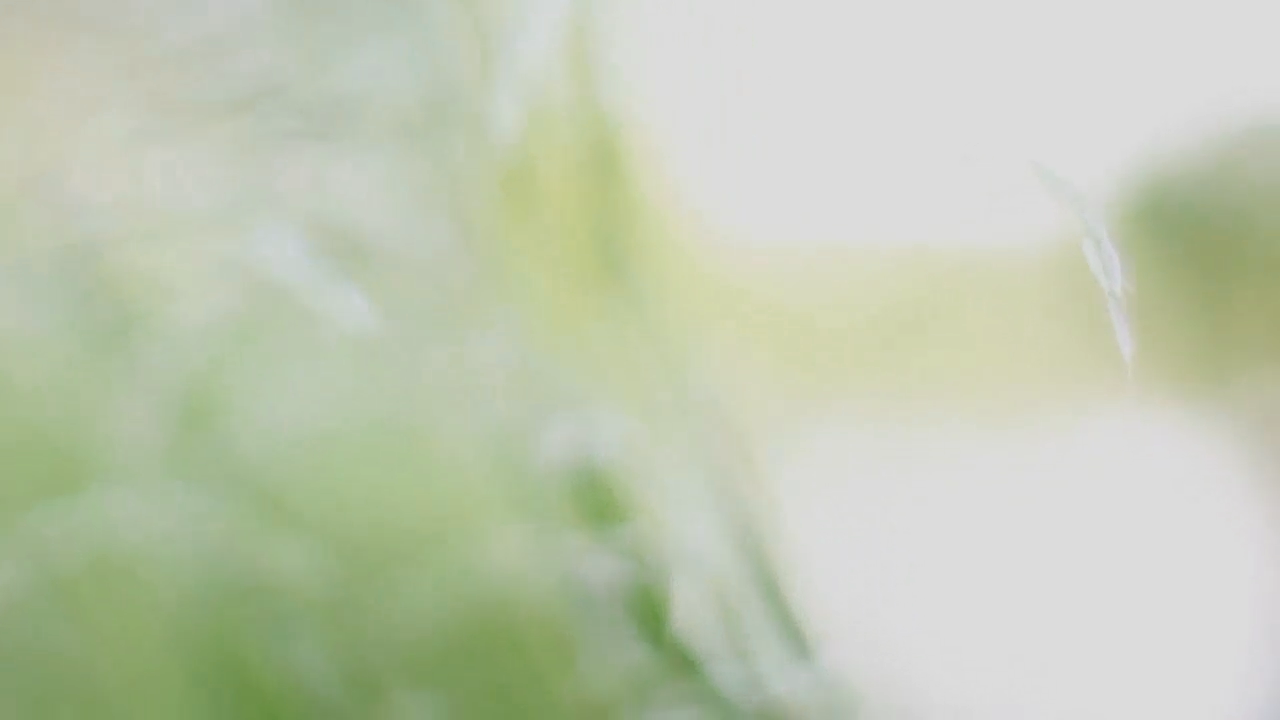
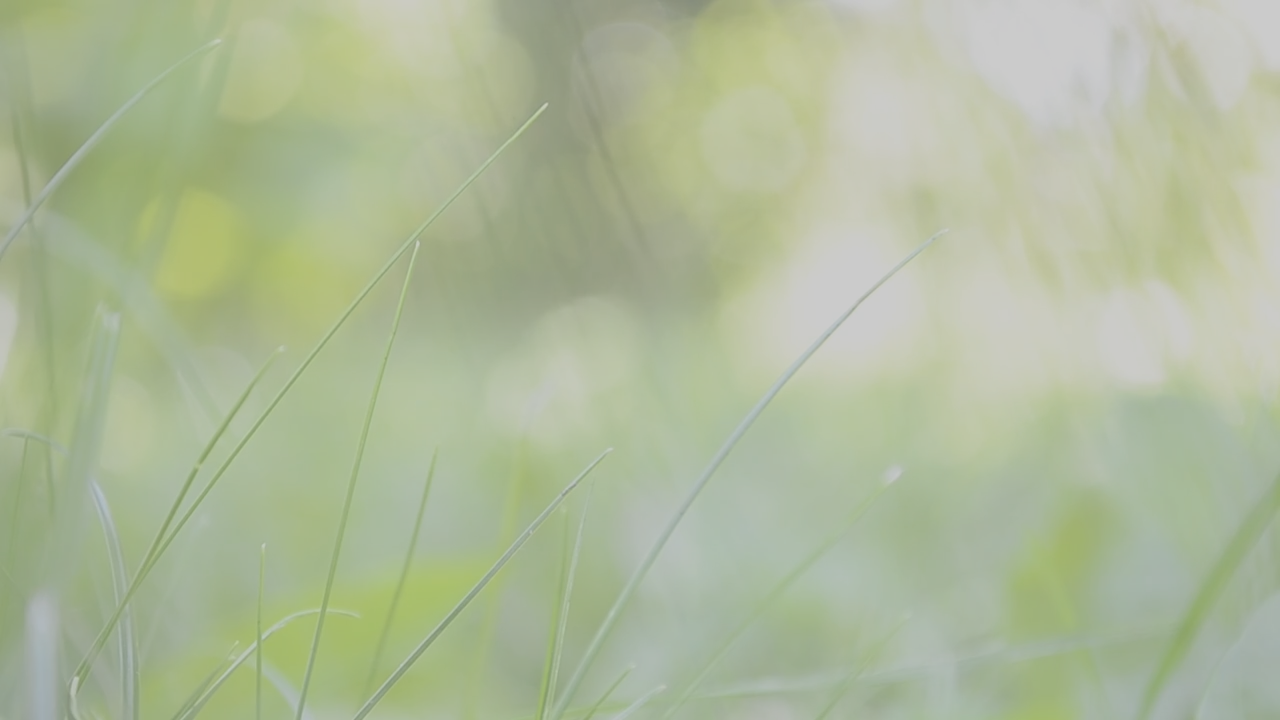
Updated mobile background

diff --git a/js/script.js b/js/script.js
@@ -715,9 +715,6 @@ function reInitTrack(autoPlay){
 	audio.src = 'audio/' + playlist[currentPlaylistIndex] + extension;
 	//audio.play();
 
-	
-
-
 	if(autoPlay == false){
 		// Play for 50miliseconds just to get audio duration
 		window.setTimeout(function(){
@@ -734,11 +731,9 @@ function reInitTrack(autoPlay){
 
 		if (playPromise !== undefined) {
 			playPromise.then(_ => {
-
 			    // Automatic playback started!
 			    // Show playing UI.
 			}).catch(error => {
-
 			    // Auto-play was prevented
 			    // Show paused UI.
 			});

diff --git a/css/style.css b/css/style.css
@@ -152,7 +152,7 @@ html,body{
     left: 0;
     overflow: hidden;
     background-size: cover;
-    background: url('../images/background.png') center center / cover no-repeat; /* Background fall back */
+    background: url('../images/background.png'); /*center center / cover no-repeat;*/ /* Background fall back */
 	background-color: rgba(143,195,31,0.5);
 
     /*animation: background-animationX 15s, background-animationY 10s;*/
